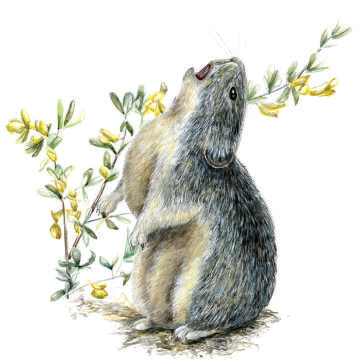
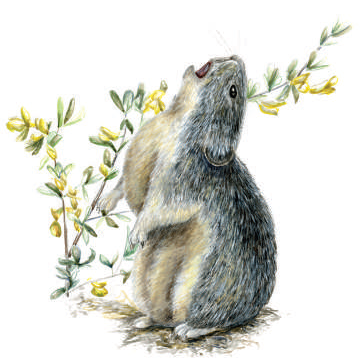
ЖИВОТНЫЕ

diff --git a/src/Pages/Mammall.js b/src/Pages/Mammall.js
@@ -1,8 +1,12 @@
 import React, { Component } from 'react'
-import img1 from '../Animals/1.png'
+import img1 from '../Animals/1.jpg'
 import img2 from '../Animals/2.png'
-import img3 from '../Animals/3.png'
+import img3 from '../Animals/3.jpg'
 import img4 from '../Animals/4.png'
+import img5 from '../Animals/5.png'
+import img6 from '../Animals/6.jpg'
+import img7 from '../Animals/7.png'
+import img8 from '../Animals/8.jpg'
 import './AnimalView.css';
 
 
@@ -12,7 +16,7 @@ export default class Mammall extends Component {
       <div className="contacts">
       <div className="contact-card">
           <img align="center" src={img1}/>
-          <h3><font color="#3AC1EF">▍Ушастый ёж</font></h3>
+          <h3><font color="#3AC1EF">Ушастый ёж</font></h3>
           <p>Распространен в Северо-
             Восточной Африке, в Евразии — от юго-востока
             Европы до Центральной Азии</p>
@@ -27,15 +31,43 @@ export default class Mammall extends Component {
       
       <div className="contact-card">
           <img align="center" src={img3}/>
-          <h3><font color="#3AC1EF">▍Обыкновенный слепыш</font></h3>
+          <h3><font color="#3AC1EF">Обыкновенный слепыш</font></h3>
           <p>Крайне редкий вид с тенденцией к росту численности.</p>
       </div>
       
       <div className="contact-card">
           <img align="center" src={img4}/>
           <h3><font color="#3AC1EF">Хомячок серый</font></h3>
-          <p>Крайне редкий вид. Тенденции численности неизвестны.
-           В Самарской обл. находится на северной грани-</p>
+          <p>Крайне редкий вид. Тенденции численности неизвестны
+           В Самарской обл. </p>
+      </div>
+
+      <div className="contact-card">
+          <img align="center" src={img5}/>
+          <h3><font color="#3AC1EF">Гигантская вечерница</font></h3>
+          <p> Относится к семейству гладконосых летучих мышей. 
+            Является самой крупной летучей мышью в Европе и России.</p>
+      </div>
+      
+      <div className="contact-card">
+          <img align="center" src={img6}/>
+          <h3><font color="#3AC1EF">Ночница Наттерера</font></h3>
+          <p>Небольшая летучая мышь рода ночниц. Названа в 
+            честь австрийского натуралиста Иоганна Наттерера. </p>
+      </div>
+
+      <div className="contact-card">
+          <img align="center" src={img7}/>
+          <h3><font color="#3AC1EF">Кожан поздний</font></h3>
+          <p>Вид, легко осваивающий разнообразные ландшафты, 
+            связан с людскими поселениями и гористыми местностями.</p>
+      </div>
+      
+      <div className="contact-card">
+          <img align="center" src={img8}/>
+          <h3><font color="#3AC1EF">Европейская норка</font></h3>
+          <p>Хищное млекопитающее. Водится в Восточной Европе, 
+            по берегам рек, питается рыбой, лягушками, раками.  </p>
       </div>
   </div>
     )
